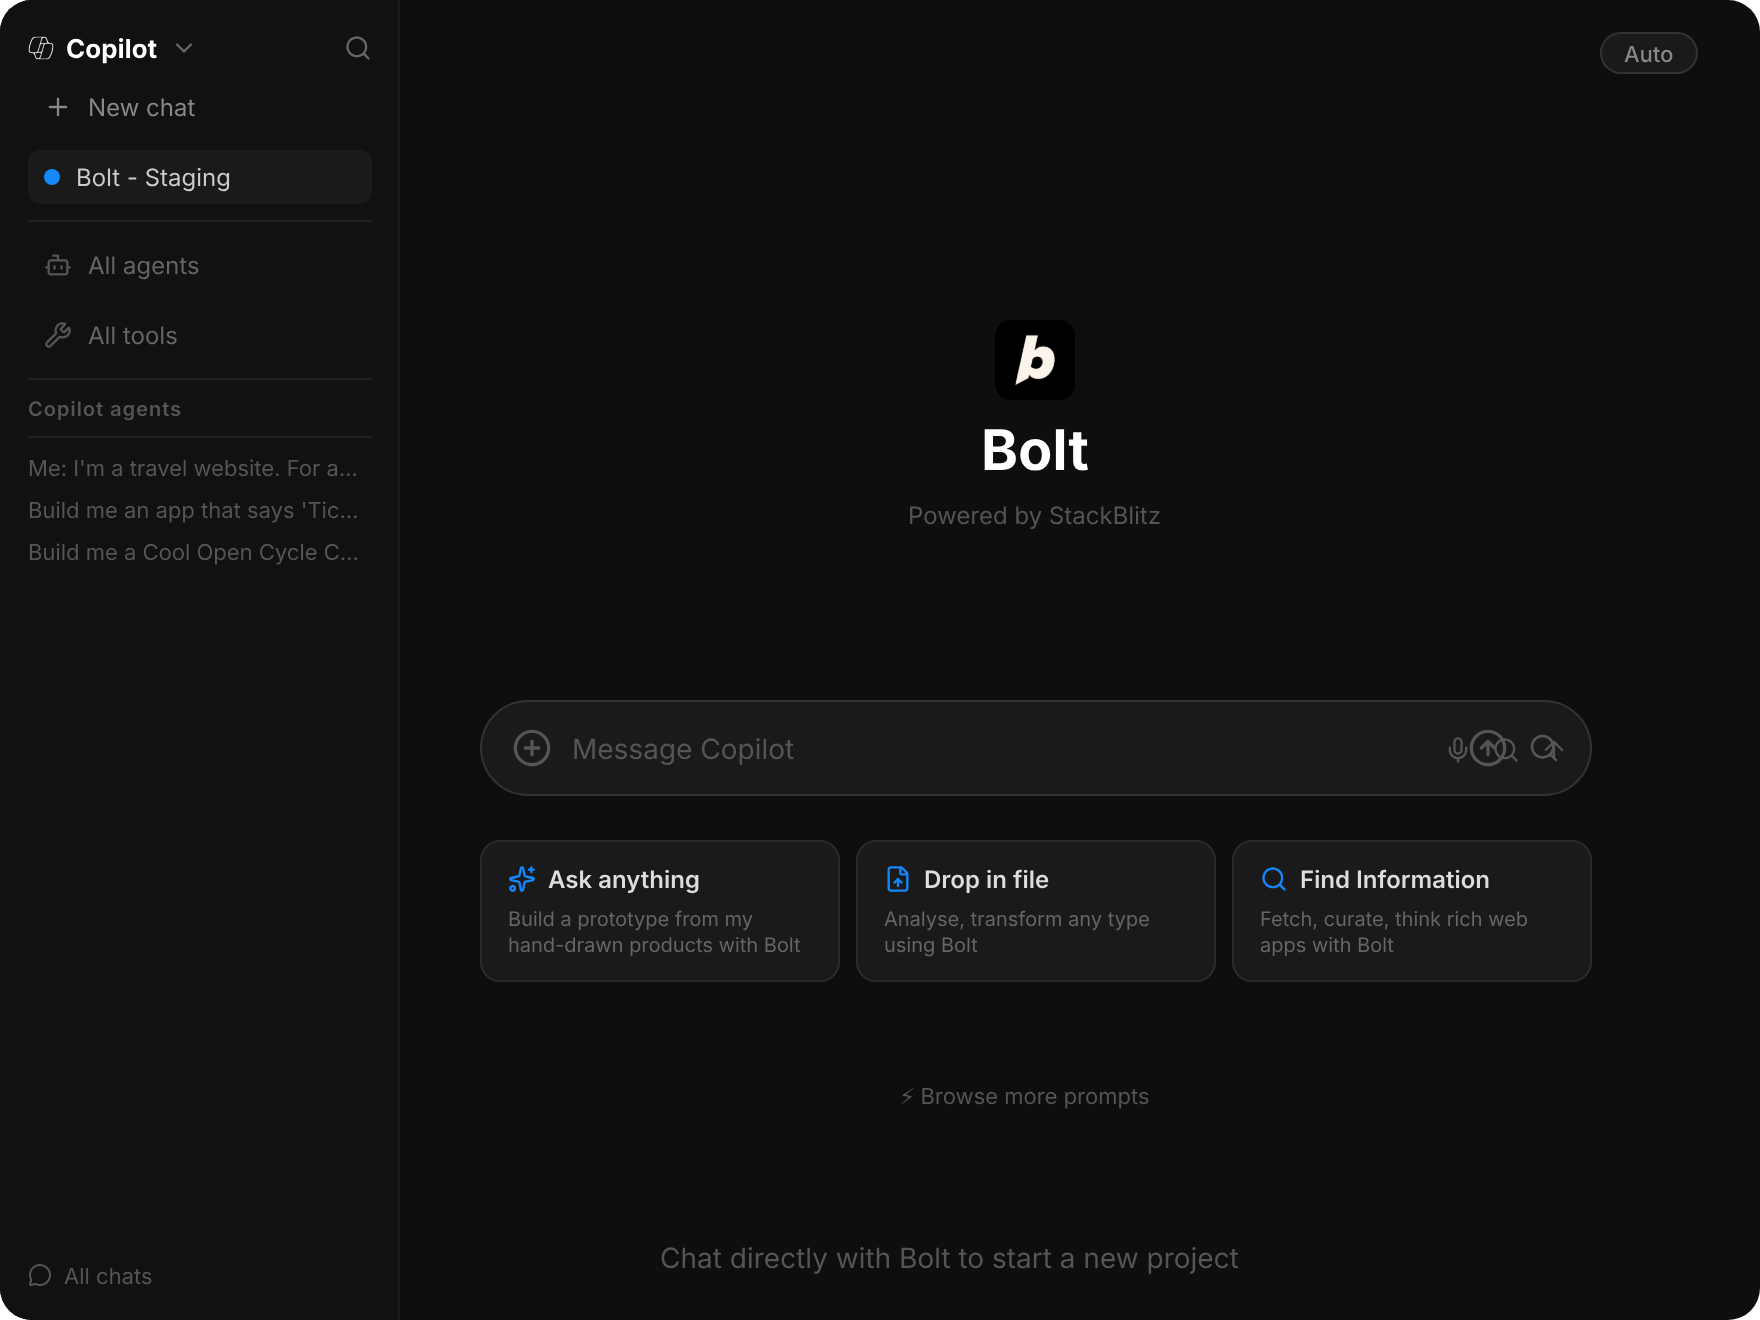
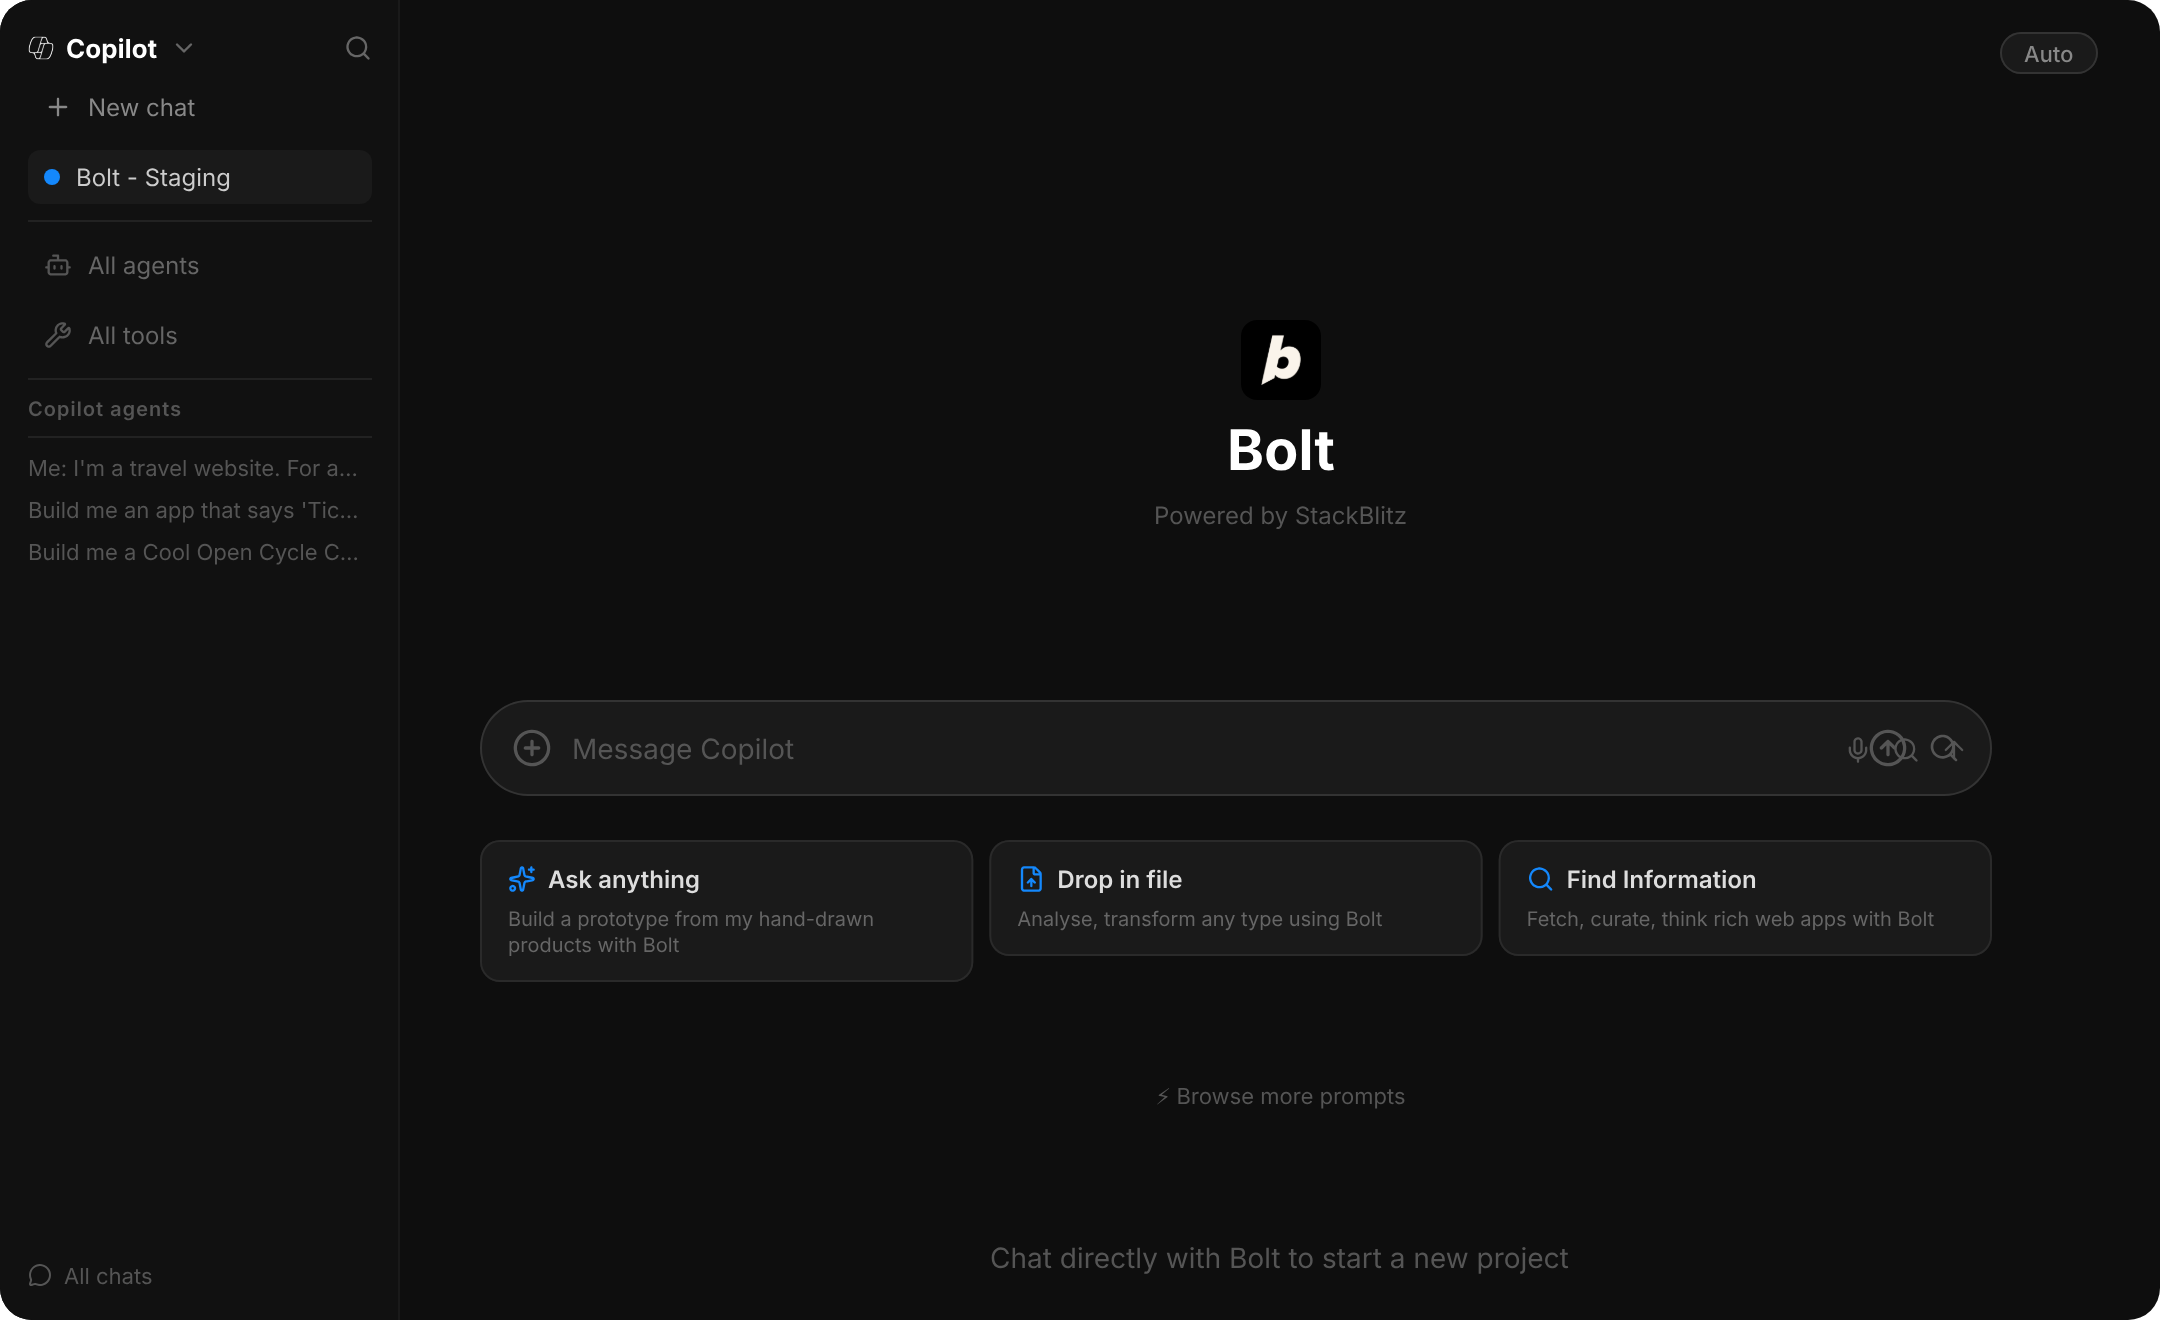
Replace slider images with wider 2160x1320 versions, update aspect-ratio to 18/11

diff --git a/marketing/microsoft.html b/marketing/microsoft.html
@@ -315,7 +315,7 @@ body { background: #000; font-family: 'Inter', sans-serif; overflow-x: hidden; }
   .slider-inner-header.transitioning .slider-inner-sub { opacity: 0; transform: translate(-8px, -6px); filter: blur(4px); }
   .slider-container { width: min(1120px, calc(100vw - 160px)); background: #111111; border-radius: 4px; position: relative; margin: 0 auto; padding: clamp(20px, 2.5vh, 36px) 28px 14px; box-sizing: border-box; }
   #slider-bg-canvas { position: absolute; inset: 0; width: 100%; height: 100%; pointer-events: none; z-index: 0; border-radius: 4px; }
-  .browser-mockup { margin: 0; width: 100%; aspect-ratio: 4/3; height: auto; position: relative; z-index: 1; border: 1px solid #333; border-radius: 12px; display: flex; flex-direction: column; overflow: hidden; }
+  .browser-mockup { margin: 0; width: 100%; aspect-ratio: 18/11; height: auto; position: relative; z-index: 1; border: 1px solid #333; border-radius: 12px; display: flex; flex-direction: column; overflow: hidden; }
   .browser-top-bar { height: 32px; min-height: 32px; display: flex; align-items: center; padding: 0 16px; gap: 10px; background: #222; flex-shrink: 0; }
   .browser-dot { width: 8px; height: 8px; border-radius: 50%; background: #d9d9d9; flex-shrink: 0; }
   @keyframes draft-reveal { from { opacity: 0; transform: translateY(8px); filter: blur(6px); } to { opacity: 1; transform: translateY(0); filter: blur(0px); } }
@@ -640,7 +640,7 @@ body { background: #000; font-family: 'Inter', sans-serif; overflow-x: hidden; }
     .slider-learn-more-desktop { display: none; }
     .slider-learn-more-mobile { display: block; order: 4; text-align: center; border-radius: 0; border-left: none; border-right: none; border-bottom: none; padding: 18px 20px; }
     .slider-nav { flex-direction: column; gap: 8px; min-height: auto; padding: 16px 0; order: 1; margin: 0; width: 100%; }
-    .browser-mockup { order: 2; border-radius: 10px; margin: 0 10px; width: calc(100% - 20px); aspect-ratio: 4/3; height: auto; }
+    .browser-mockup { order: 2; border-radius: 10px; margin: 0 10px; width: calc(100% - 20px); aspect-ratio: 18/11; height: auto; }
     .slider-inner-header { order: 3; margin-bottom: 0; padding: 20px 20px 20px; }
     .slider-tabs { flex-wrap: wrap; }
     .slider-tab { max-width: none; flex: 1 1 calc(33% - 8px); min-width: 90px; padding: 10px 8px; }
